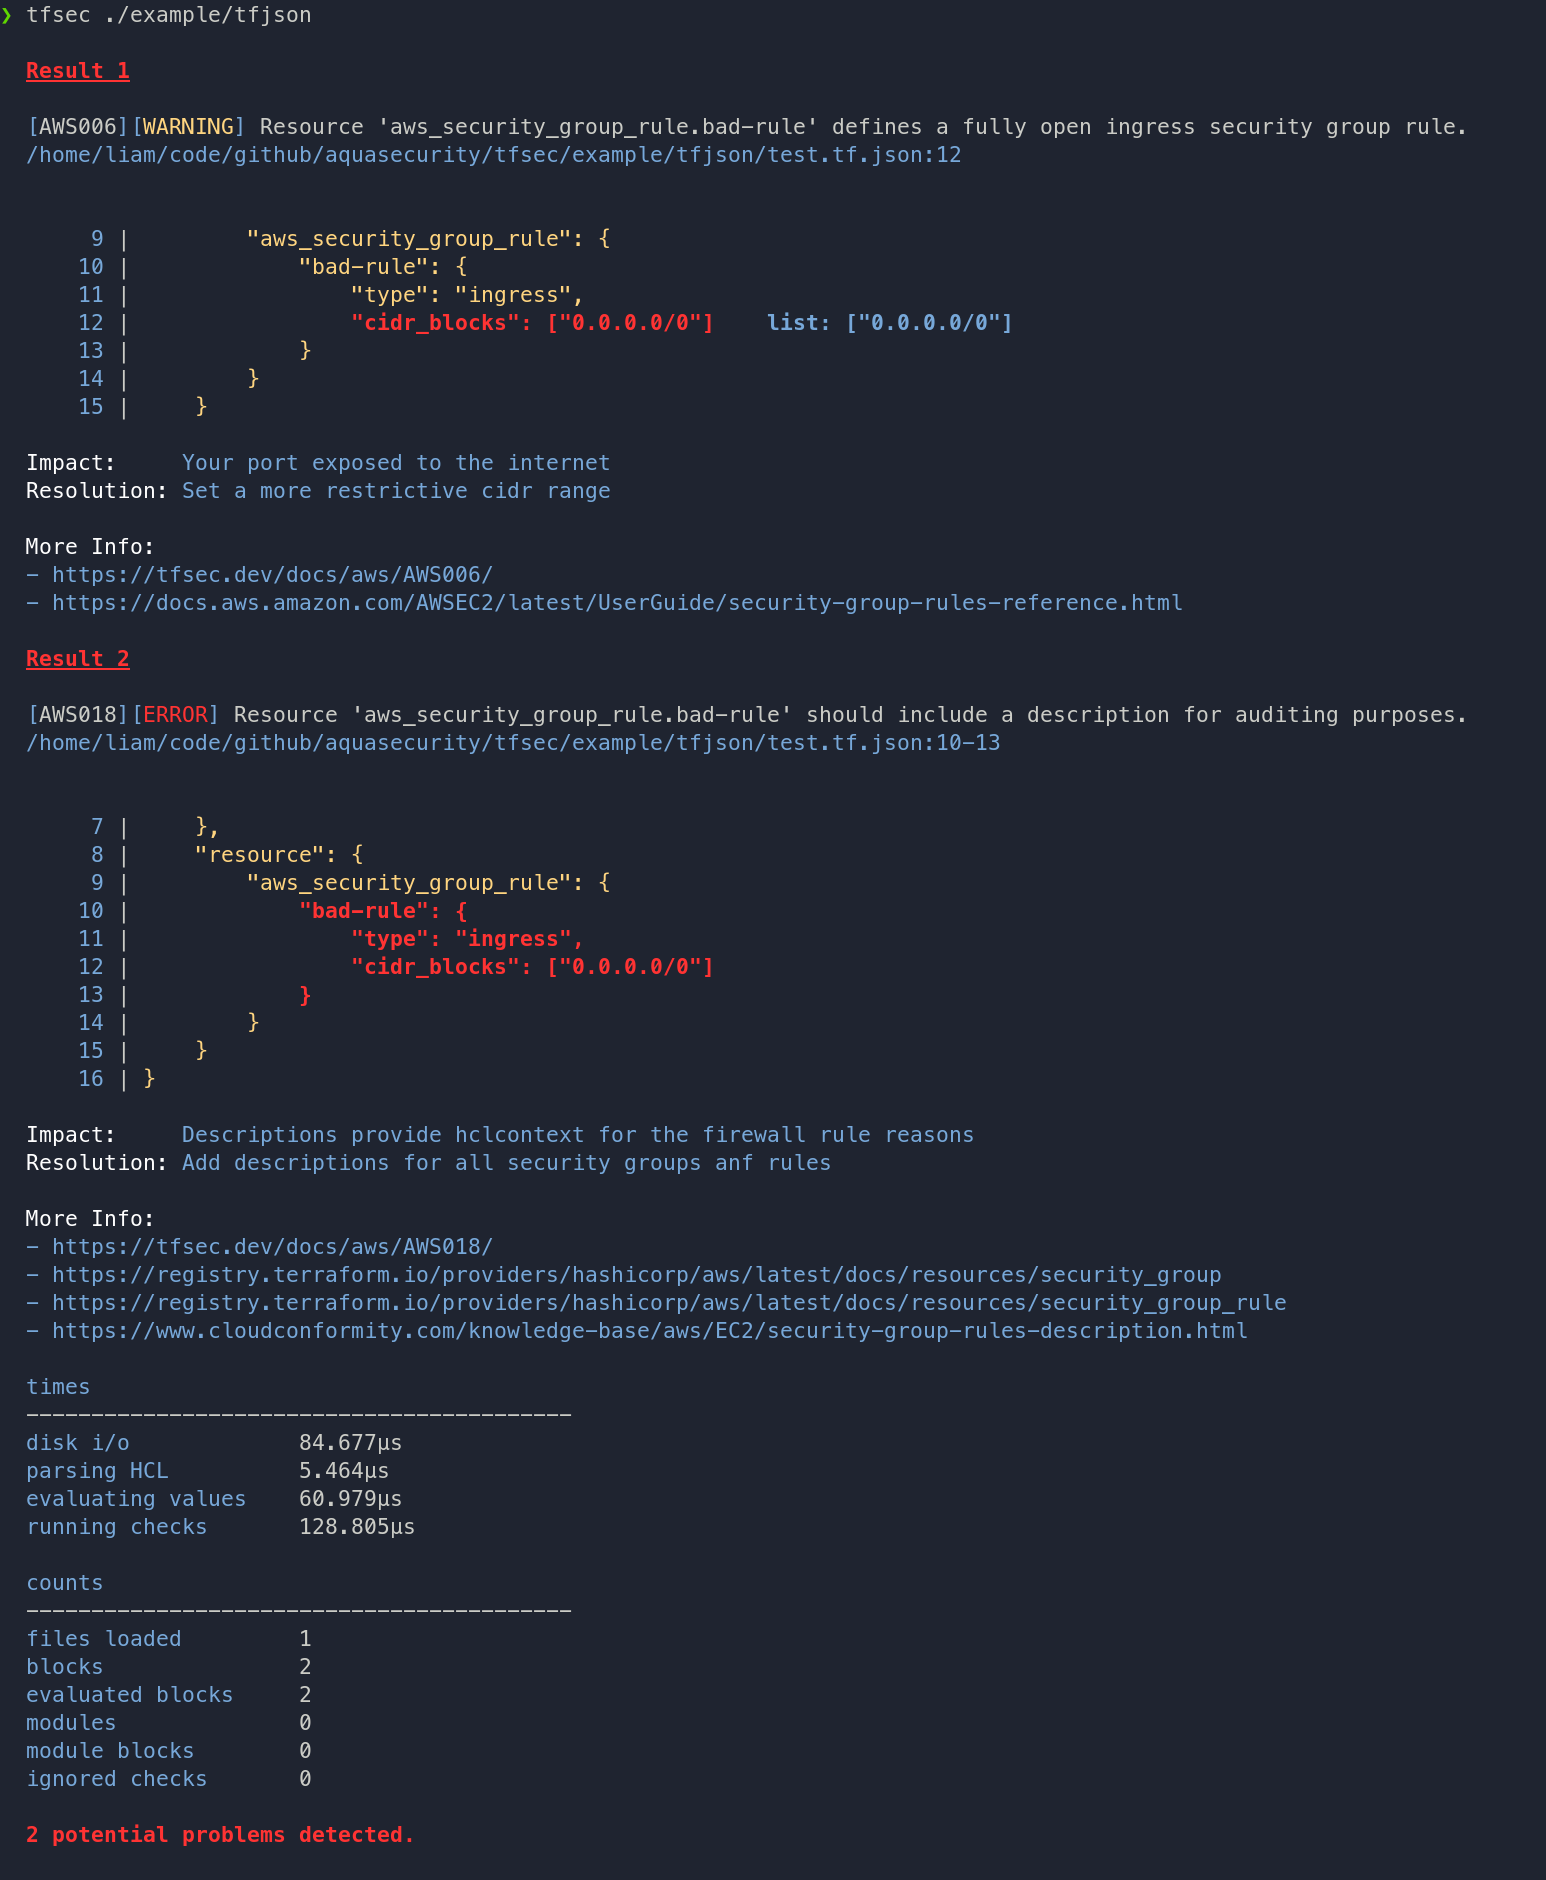
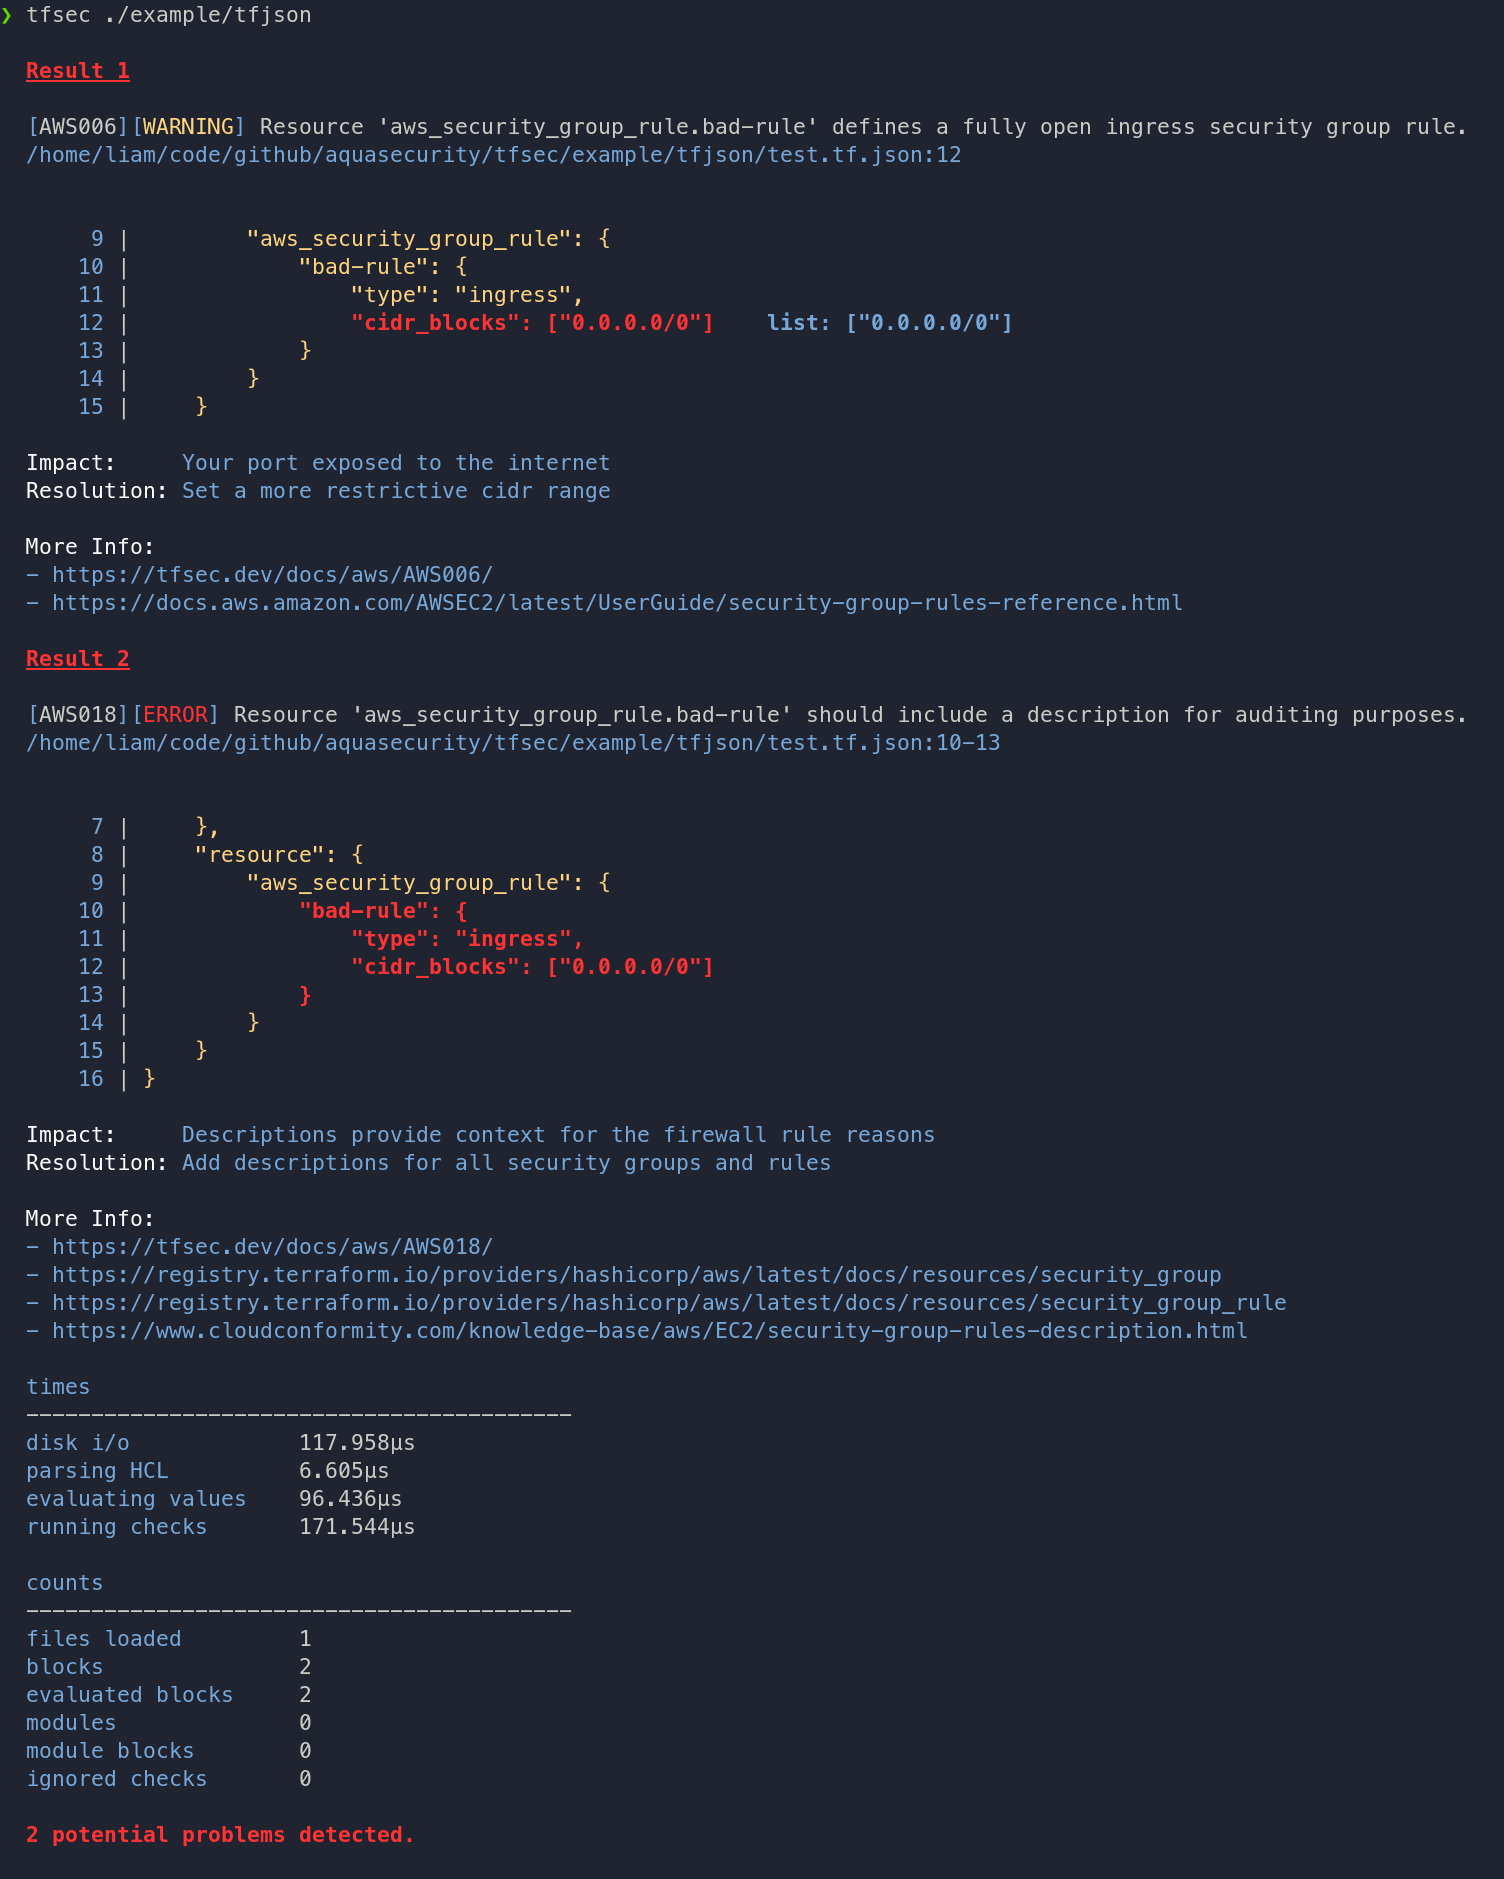
Fixed a couple of typos in the screenshot (#855)

diff --git a/internal/app/tfsec/rules/aws018.go b/internal/app/tfsec/rules/aws018.go
@@ -19,8 +19,8 @@ import (
 
 const AWSNoDescriptionInSecurityGroup = "AWS018"
 const AWSNoDescriptionInSecurityGroupDescription = "Missing description for security group/security group rule."
-const AWSNoDescriptionInSecurityGroupImpact = "Descriptions provide hclcontext for the firewall rule reasons"
-const AWSNoDescriptionInSecurityGroupResolution = "Add descriptions for all security groups anf rules"
+const AWSNoDescriptionInSecurityGroupImpact = "Descriptions provide context for the firewall rule reasons"
+const AWSNoDescriptionInSecurityGroupResolution = "Add descriptions for all security groups and rules"
 const AWSNoDescriptionInSecurityGroupExplanation = `
 Security groups and security group rules should include a description for auditing purposes.
 

diff --git a/internal/app/tfsec/parser/evaluator.go b/internal/app/tfsec/parser/evaluator.go
@@ -70,7 +70,7 @@ func (e *Evaluator) SetModuleBasePath(path string) {
 func (e *Evaluator) evaluateStep(i int) {
 
 	evalTime := metrics.Start(metrics.Evaluation)
-	debug.Log("Starting iteration %d of hclcontext evaluation...", i+1)
+	debug.Log("Starting iteration %d of context evaluation...", i+1)
 
 	e.ctx.Variables["var"] = e.getValuesByBlockType("variable")
 	e.ctx.Variables["local"] = e.getValuesByBlockType("locals")
